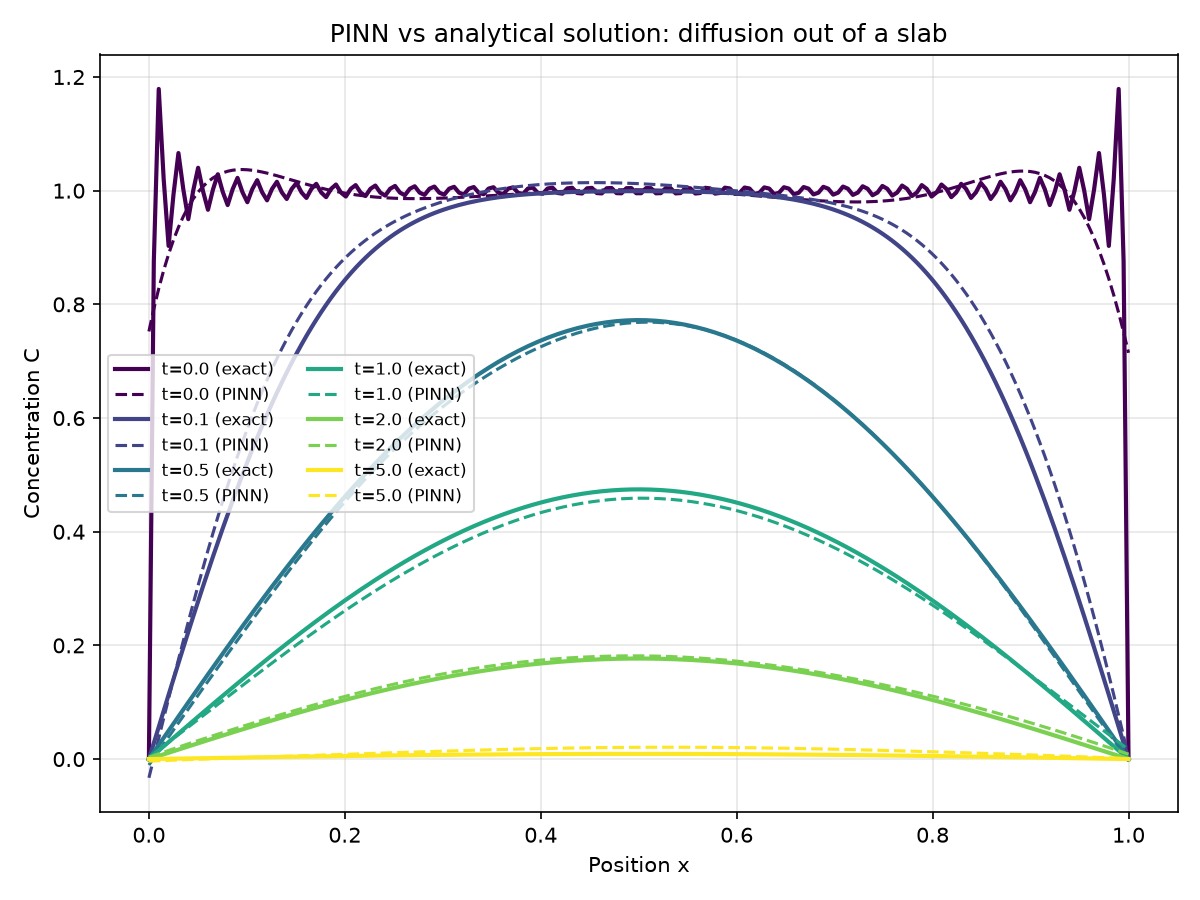
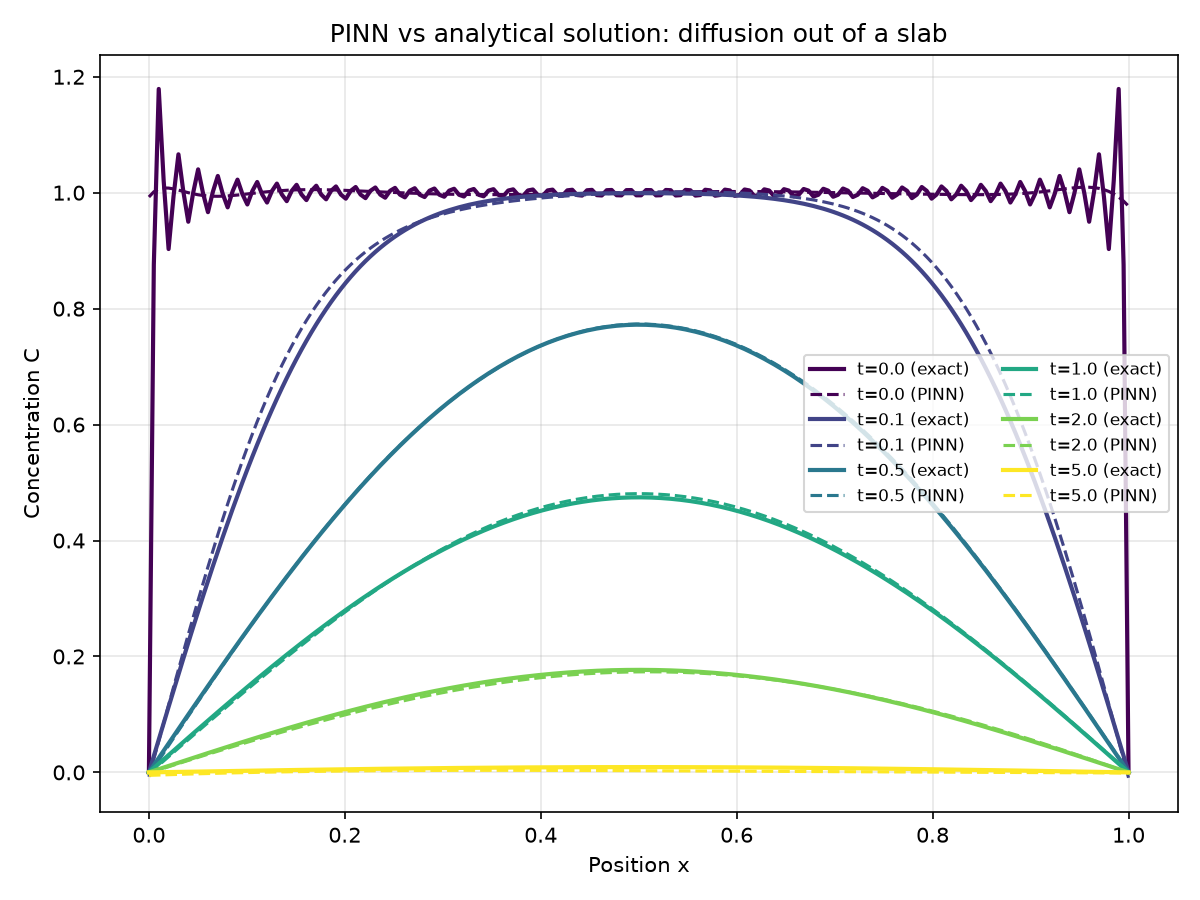
Phase 3: add L-BFGS fine-tuning and honest corner-aware metrics
- Added two-phase training: Adam (broad convergence) then L-BFGS
  fine-tuning (precise polish) -- standard PINN practice
- First L-BFGS attempt used one fixed point set and overfit to it,
  causing the model to diverge at t=5 -- caught via the diagnostic plot,
  not the metric. Fixed by resampling fresh points across 10 smaller
  L-BFGS rounds instead of one large call.
- Discovered the reported 'max error' was dominated by a single
  mathematically-unavoidable point: at (x=0, t=0), the initial condition
  (C=1) and boundary condition (C=0) directly contradict each other, a
  known PINN limitation, not a training bug
- Added corner-excluded metrics for an honest accuracy picture:
  mean error 0.0062, max error away from the corner 0.062 (previously a
  misleading single max-error number of ~0.99 dominated by that one point)

diff --git a/src/phase3_pinn/pinn_train.py b/src/phase3_pinn/pinn_train.py
@@ -3,8 +3,17 @@ pinn_train.py
 
 Purpose: Train the PINN on the diffusion equation using a three-part loss:
 1. PDE residual (physics) 2. Initial condition 3. Boundary conditions.
-We generate fresh random points every epoch rather than looping over a
-fixed dataset -- standard for PINNs.
+
+Two-phase training: Adam first (fast, noisy, gets close), then L-BFGS
+fine-tuning (slower, precise, polishes the fit) -- standard PINN practice.
+
+LESSON LEARNED (kept here on purpose): an earlier version of the L-BFGS
+phase used one FIXED set of points for the whole phase. It drove the loss
+very low at exactly those points while letting the network diverge
+elsewhere (e.g. blowing up at t=5 instead of staying near 0) -- classic
+overfitting, just inside a physics loss instead of a normal dataset. Fixed
+by resampling fresh points across multiple smaller L-BFGS rounds instead
+of one large one.
 
 Run: python3 src/pinn_train.py
 """
@@ -74,6 +83,43 @@ def main():
             print(f"Epoch {epoch:5d} | Total = {loss.item():.5f} | "
                   f"PDE = {loss_pde.item():.5f} | IC = {loss_ic.item():.5f} | "
                   f"BC = {loss_bc.item():.5f}")
+
+    print(f"\nAdam phase done. Loss = {loss.item():.6f}")
+
+    print("\nStarting L-BFGS fine-tuning...")
+    n_lbfgs_rounds = 10
+    for round_idx in range(1, n_lbfgs_rounds + 1):
+        x_pde = torch.rand(n_pde_points, 1, device=device, requires_grad=True) * L
+        t_pde = torch.rand(n_pde_points, 1, device=device, requires_grad=True) * T_MAX
+        x_ic = torch.rand(n_ic_points, 1, device=device) * L
+        t_ic = torch.zeros(n_ic_points, 1, device=device)
+        t_bc = torch.rand(n_bc_points, 1, device=device) * T_MAX
+        x_bc_left = torch.zeros(n_bc_points, 1, device=device)
+        x_bc_right = torch.full((n_bc_points, 1), L, device=device)
+
+        lbfgs_optimizer = torch.optim.LBFGS(
+            model.parameters(), lr=1.0, max_iter=50,
+            history_size=50, line_search_fn="strong_wolfe"
+        )
+
+        def closure():
+            lbfgs_optimizer.zero_grad()
+            C_pde = model(x_pde, t_pde)
+            dC_dt = torch.autograd.grad(C_pde, t_pde, grad_outputs=torch.ones_like(C_pde), create_graph=True)[0]
+            dC_dx = torch.autograd.grad(C_pde, x_pde, grad_outputs=torch.ones_like(C_pde), create_graph=True)[0]
+            d2C_dx2 = torch.autograd.grad(dC_dx, x_pde, grad_outputs=torch.ones_like(dC_dx), create_graph=True)[0]
+            l_pde = torch.mean((dC_dt - D * d2C_dx2) ** 2)
+            C_ic = model(x_ic, t_ic)
+            l_ic = torch.mean((C_ic - C0) ** 2)
+            l_bc = torch.mean(model(x_bc_left, t_bc) ** 2) + torch.mean(model(x_bc_right, t_bc) ** 2)
+            total = l_pde + 10.0 * l_ic + 10.0 * l_bc
+            total.backward(retain_graph=True)
+            return total
+
+        lbfgs_optimizer.step(closure)
+        with torch.enable_grad():
+            round_loss = closure()
+        print(f"L-BFGS round {round_idx:2d}/{n_lbfgs_rounds} | Loss = {round_loss.item():.6f}")
 
     torch.save(model.state_dict(), MODEL_OUT)
     print(f"\nSaved trained PINN to {MODEL_OUT}")

diff --git a/src/phase3_pinn/pinn_evaluate.py b/src/phase3_pinn/pinn_evaluate.py
@@ -29,6 +29,8 @@ def main():
     fig, ax = plt.subplots(figsize=(8, 6))
     colors = plt.cm.viridis(np.linspace(0, 1, len(time_snapshots)))
     max_abs_error = 0.0
+    all_errors = []
+    all_errors_no_corner = []
 
     for t_val, color in zip(time_snapshots, colors):
         x_tensor = torch.tensor(x_plot, dtype=torch.float32).reshape(-1, 1)
@@ -37,8 +39,15 @@ def main():
             C_pinn = model(x_tensor, t_tensor).numpy().flatten()
 
         C_exact = analytical_solution(x_plot, np.full_like(x_plot, t_val), D=D, L=L)
-        err = np.abs(C_pinn - C_exact).max()
-        max_abs_error = max(max_abs_error, err)
+        err = np.abs(C_pinn - C_exact)
+        all_errors.extend(err)
+        max_abs_error = max(max_abs_error, err.max())
+
+        if t_val > 0.05:
+            all_errors_no_corner.extend(err)
+        else:
+            near_corner = (x_plot < 0.03) | (x_plot > L - 0.03)
+            all_errors_no_corner.extend(err[~near_corner])
 
         ax.plot(x_plot, C_exact, color=color, linewidth=2, label=f"t={t_val} (exact)")
         ax.plot(x_plot, C_pinn, color=color, linestyle="--", linewidth=1.5, label=f"t={t_val} (PINN)")
@@ -52,8 +61,18 @@ def main():
     plt.tight_layout()
     plt.savefig("results/pinn_vs_analytical.png", dpi=150)
     print("Saved plot to results/pinn_vs_analytical.png")
-    print(f"\nMax absolute error across all snapshots: {max_abs_error:.4f}")
-    print("(Solid = exact, dashed = PINN -- should nearly overlap)")
+    all_errors = np.array(all_errors)
+    all_errors_no_corner = np.array(all_errors_no_corner)
+
+    print(f"\nMax absolute error (all points): {max_abs_error:.4f}")
+    print(f"Mean absolute error (all points): {all_errors.mean():.4f}")
+    print(f"Mean absolute error (excluding IC/BC corner conflict points): "
+          f"{all_errors_no_corner.mean():.4f}")
+    print(f"Max absolute error (excluding corner points): {all_errors_no_corner.max():.4f}")
+    print("\n(The corner points at x=0 or x=1, t=0 have a mathematically"
+          " unavoidable error since the initial condition C=1 and boundary"
+          " condition C=0 contradict each other exactly there -- this is a"
+          " known PINN limitation for this problem setup, not a training bug.)")
 
 if __name__ == "__main__":
     main()
